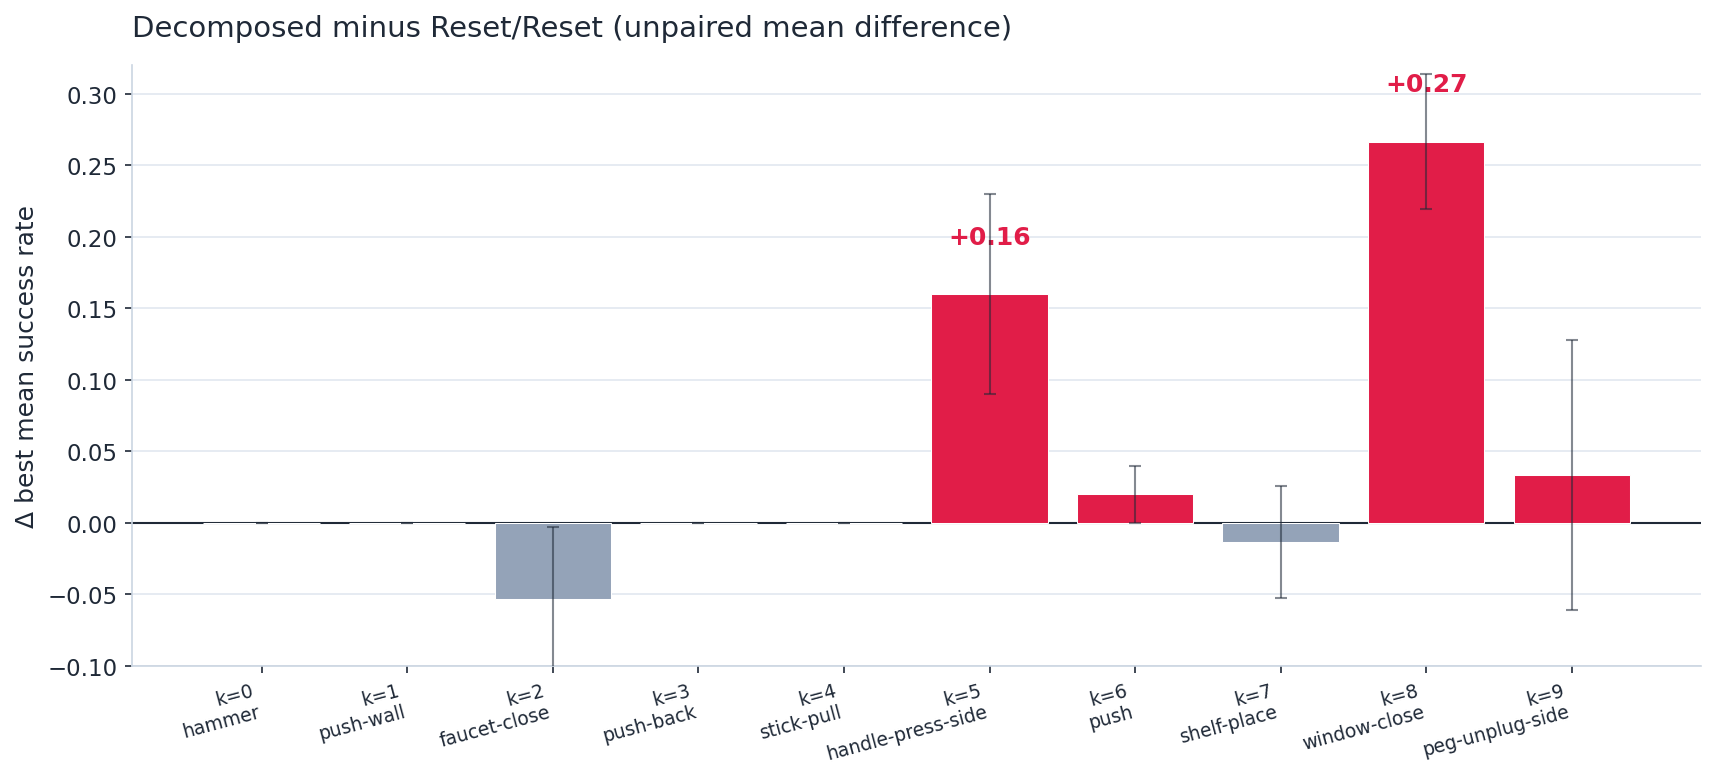
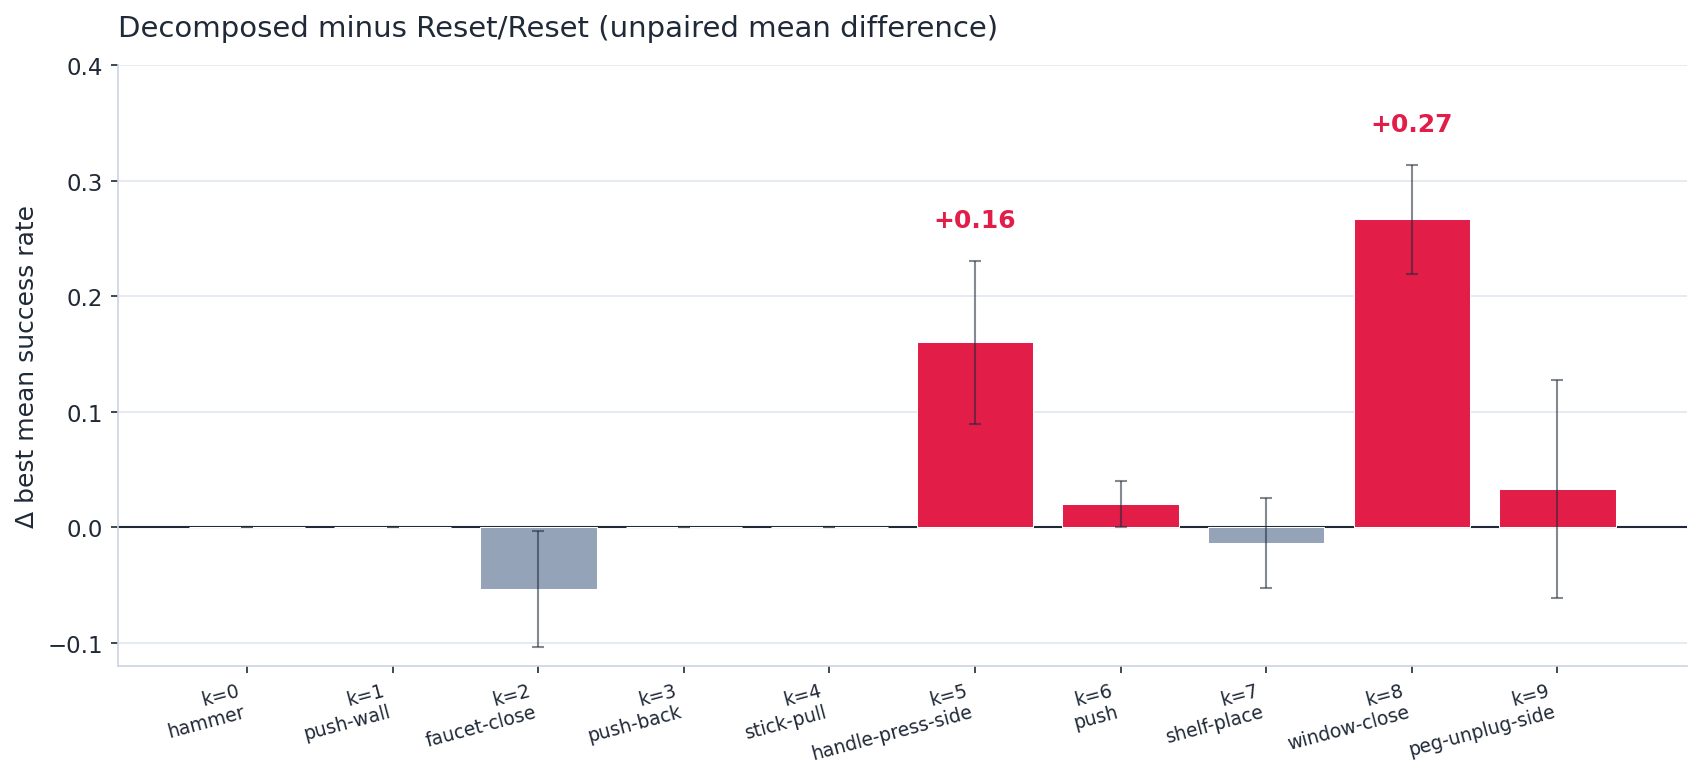
results/presentation: standalone RESULTS.md (diagnosis + method + results)
Self-contained markdown presentation of the project's full result
package: the CKA-mixture diagnosis (H1/H2 alpha-vs-success scatter,
the C0 mixture-dynamics panel, the H3 alpha-vs-logsumexp panel),
the L_dyn convergence panel for the proposed decomposed critic, and
the four headline result figures (avg-best bar, per-task grouped
bars, per-task delta, hard-task trajectories) plus the full
per-task and per-cell tables.

Embeds every figure under results/presentation/img/ and
docs/wandb_analysis/png/ via relative paths and inline LaTeX-style
math. Reads top-to-bottom as the experimental section of the
workshop paper would.

Also: re-rendered delta_per_task.png with the +0.27 annotation
moved above the error-bar cap (previously overlapping).

diff --git a/results/scripts/render_plots.py b/results/scripts/render_plots.py
@@ -187,15 +187,16 @@ def plot_delta_per_task(df: pd.DataFrame, save_to: Path) -> None:
     ax.set_ylabel("Δ best mean success rate")
     ax.set_title("Decomposed minus Reset/Reset (unpaired mean difference)",
                  loc="left", pad=14)
-    ax.set_ylim(-0.1, 0.32)
+    ax.set_ylim(-0.12, 0.40)
     ax.yaxis.grid(True, color="#e2e8f0", lw=0.8, zorder=0)
     ax.set_axisbelow(True)
-    # Annotate the big wins.
+    # Annotate the big wins -- place the label clear of the error-bar cap.
     for k in (5, 8):
+        top = delta[k] + se[k] + 0.025
         ax.annotate(f"+{delta[k]:.2f}",
-                    xy=(k, delta[k]),
-                    xytext=(k, delta[k] + 0.035),
-                    ha="center", color=ROSE, fontsize=12, fontweight="bold")
+                    xy=(k, top),
+                    ha="center", va="bottom",
+                    color=ROSE, fontsize=12, fontweight="bold")
     fig.savefig(save_to, dpi=150, bbox_inches="tight", facecolor="white")
     plt.close(fig)
 

diff --git a/results/presentation/RESULTS.md b/results/presentation/RESULTS.md
@@ -1,0 +1,153 @@
+# Decomposed Contrastive Critics for Continual GCRL — Results
+
+2026-05-15 · W&B `nyuad_mmvc/continual_gcrl_paper` · code: `Okyumi/sgcrl@section3_done`
+
+## Setup
+
+| | |
+|---|---|
+| **Sequence** | $\mathcal{M}^{(1)}, \ldots, \mathcal{M}^{(K)}$, $K = 10$ Continual World V2 Sawyer tasks; shared $\mathcal{S}, \mathcal{A}$; task-specific $P^{(k)}, \mathcal{G}^{(k)}$. |
+| **Reward** | $r_g(s_t, a_t) = (1-\gamma)\,p(s_{t+1} = g \mid s_t, a_t)$ — sparse goal-reaching only. |
+| **Goal** | $\max_\theta \mathbb{E}_k\, \mathbb{E}_{g \sim \mathcal{G}^{(k)}}\,\mathbb{E}_{\tau \sim \pi_\theta^{(k)}}\big[\sum_t \gamma^t \mathbf{1}[s_{t+1} = g]\big]$ after observing $\mathcal{M}^{(1..k)}$ in order. |
+| **Critic** | Contrastive InfoNCE on $(s, a, g)$ with hindsight relabelling and in-batch negatives. |
+| **Compute** | 8M env steps per task; 3 seeds for the decomposed cell, 4–5 seeds per cell for the 9-cell baseline grid. |
+
+---
+
+## Part I — Diagnosis: the CKA mixture is anti-predictive on the contrastive critic
+
+We first instantiate the additive knowledge-vector decomposition of prior continual-RL work on a contrastive critic and read off what the mixture coefficients actually do across the task curriculum. Three findings establish that this mixture is not a working transfer channel for a contrastive value function.
+
+### H1/H2 — Critic mixture coefficient is anti-correlated with success
+
+![End-of-task α_scale vs end-of-task best success, separately for the actor pool and the critic pool. Each point is one (task, seed) pair, n=24. Actor: Pearson r = +0.27 (p=0.204), no correlation. Critic: Pearson r = −0.54 (p=0.007), anti-correlation.](img/h1_h2_alpha_vs_success.png)
+
+**Reading.** Critic-side mixture is *alive but anti-predictive*: across 24 (task, seed) pairs, end-of-task $s_\alpha^{\mathrm{critic}}$ anti-predicts success at $r = -0.54$ ($p = 0.007$). Actor-side mixture shows no such correlation ($r = +0.27$, $p = 0.20$). Source CSV: `docs/wandb_analysis/csv/h1_h2_alpha_vs_success.csv`.
+
+### Asymmetry between actor and critic mixtures
+
+![C0 (CKA) mixture norm and α_scale across tasks k=2..9, 3 seeds. Top row: actor and critic mixture norms (log scale). Bottom row: actor and critic α_scale. Actor decays toward zero; critic stays alive and grows on hard tasks.](img/c0_trajectories.png)
+
+**Reading.** Actor mixture norm decays to $\approx 10^{-2}$ and $s_\alpha^{\mathrm{actor}}$ trends to $\approx 0.02$. Critic mixture norm settles in the $0.4$–$1.3$ band; $s_\alpha^{\mathrm{critic}}$ *grows* on the hardest tasks ($k=5$, $k=8$) and reaches $\approx 1.9$. The two sides of the decomposition behave entirely differently when transplanted onto a contrastive critic.
+
+### H3 — Critic mixture grows when InfoNCE logits spike
+
+![H3 test: per-step critic α_scale (left column) and InfoNCE logsumexp (right column) for k=3, 5, 8, 9 across three seeds. On k=5 and k=8, logsumexp spikes coincide with α_scale climbing.](img/h3_trajectories.png)
+
+**Reading.** Where the InfoNCE $\mathrm{logsumexp}$ statistic spikes ($k=5$, $k=8$), $s_\alpha^{\mathrm{critic}}$ climbs in lock-step. Spearman $\rho = -0.62$ and $-0.43$ within those tasks. On well-behaved tasks ($k=3$, $k=9$) both are quiet. The mixture is responding to numerical instability in the partition function, not to any transferable cross-task structure. Source CSV: `docs/wandb_analysis/csv/h3_logsumexp_correlation.csv`.
+
+### Why this happens, in one line
+
+The CKA-style decomposition adds the same vector $\sum_j \alpha_{k,j} v_j$ to every state-action pair. The actor argmax over actions and the InfoNCE softmax over goals are both invariant to a uniform additive shift of $\mathrm{sa\_repr}(s, a)$, so the gradient that this mixture term can carry through either loss is in their joint null space modulo a numerical-stability response. The diagnosis above is what that null-space situation looks like empirically.
+
+---
+
+## Part II — Method: decomposed contrastive critic
+
+We replace the state-independent mixture with a state-and-action-dependent additive residual on the critic, keeping the actor in `reset` mode.
+
+$$
+\mathrm{sa\_repr}(s, a) \;=\; \underbrace{h_\phi\!\bigl(b_{\mathrm{shared}}(s, a)\bigr)}_{\text{transfer}} \;+\; \underbrace{\phi_{\mathrm{task}}(s, a)}_{\text{per-task}}, \qquad
+\mathcal{L}_{\mathrm{critic}} = \mathcal{L}_{\mathrm{NCE}} + \mu\,\mathcal{L}_{\mathrm{dyn}}, \quad \mu = 1.
+$$
+
+| Component | Lifecycle at task boundary $k \to k+1$ |
+|---|---|
+| $b_{\mathrm{shared}}(s, a)$ — shared body, ResMLP 1024×4 | **carried forward** (the only transfer channel) |
+| $h_\phi$, $h_{\mathrm{dyn}}$, $\psi$ — heads / goal encoder | carried forward |
+| $\phi_{\mathrm{task}}(s, a)$ — per-task encoder, ResMLP 256×4 | **re-initialised** |
+| actor $\pi_\theta$, replay buffer $\mathcal{D}_k$ | re-initialised / cleared |
+
+The body is regularised by a masked-dynamics auxiliary on the task-invariant subspace $M = \{0,1,2,3\}$ (end-effector xyz + gripper):
+
+$$\mathcal{L}_{\mathrm{dyn}} \;=\; \mathbb{E}_{(s,a,s')}\!\big\|\, h_{\mathrm{dyn}}\!\bigl(b_{\mathrm{shared}}(s, a)\bigr) - s'_M \,\big\|_2^2.$$
+
+### Auxiliary loss converges at task 0 and stays there
+
+![C2 (decomposed) dynamics-auxiliary loss across tasks k=0..7, median ± IQR over 3 seeds. L_dyn drops three orders of magnitude during task 0 (purple) and stays at ~1e-4 on all subsequent tasks.](img/c2_ldyn_dynamics.png)
+
+**Reading.** $\mathcal{L}_{\mathrm{dyn}}$ converges by approximately three orders of magnitude during task 0 and remains at the same floor on $k = 1, \ldots, 7$. Two readings of this are consistent with the data: the auxiliary either (i) acts as a one-shot initialiser for $b_{\mathrm{shared}}$ at $k=0$, or (ii) acts as a low-level continual regulariser. A flag-gated ablation cell (`dyn_aux_after_task0 = 0`) is queued to distinguish the two. Source CSV: `docs/wandb_analysis/csv/c2_ldyn_per_task.csv`.
+
+---
+
+## Part III — Headline result
+
+### Average best success across the 10 tasks
+
+![Bar chart of average best success across the 10 tasks for all 10 cells; decomposed (rose) at 0.873 highest. R/R at 0.832, P/R at 0.827, P/P at 0.791, R/P at 0.774, R/CKA at 0.840, CKA/R at 0.841, CKA/P at 0.797, CKA/CKA at 0.781, P/CKA at 0.761, Decomposed (ours) at 0.873.](img/avg_best_bar.png)
+
+**Reading.** Decomposed critic at $\mathbf{0.873}$ vs the best non-decomposed cell (CKA/R) at $0.841$, vs the from-scratch baseline R/R at $0.832$. The gap from "best baseline cell" to "ours" is $0.032$ — larger than the spread of the other nine cells.
+
+### Per-task best mean success across the curriculum
+
+![Grouped bar chart of per-task best success for Reset/Reset (slate), Persistent/Persistent (amber), CKA/Reset (indigo), and Decomposed (rose). Decomposed visibly wins k=5 and k=8; matches the field elsewhere.](img/bar_per_task.png)
+
+**Reading.** Easy tasks ($k = 0, 1, 3, 4, 6$) are at ceiling for every cell. The gap from the decomposed critic to the baselines opens on the three hard tasks ($k = 5, 8, 9$).
+
+### Where the gain lives — decomposed minus reset/reset, per task
+
+![Bar chart of decomposed minus reset/reset per task, with propagated standard error. +0.16 on k=5 handle-press-side and +0.27 on k=8 window-close annotated in rose; other tasks within seed noise of zero.](img/delta_per_task.png)
+
+**Reading.** The improvement is concentrated entirely on the two hardest tasks: $\Delta = +0.27$ on `window-close` (k=8) and $\Delta = +0.16$ on `handle-press-side` (k=5). Other tasks are within seed noise of zero. The two error bars on the wins do not cross zero. `peg-unplug-side` (k=9) trends positive but has overlapping error bars; `faucet-close` (k=2) trends slightly negative with overlapping error bars.
+
+### Trajectories on the three hardest tasks
+
+![Three side-by-side line plots of evaluator success rate vs env steps for the four cells on k=5, k=8, k=9. Decomposed (rose) is above the others on k=5 and k=8 across the full 8M steps; competitive on k=9.](img/trajectories_hard.png)
+
+**Reading.** The decomposed cell does not win by spiking late — it sits *above the baselines for the entire 8M-step training window* on `window-close`, at roughly twice the success rate of the next-best cell. On `handle-press-side` the absolute level is low for every cell but the decomposed cell stays consistently above. On `peg-unplug-side` the four cells converge to $\approx 0.4$.
+
+### Full per-task table
+
+| $k$ | task | R / R | P / P | C / R | Decomposed |
+|---:|:---|---:|---:|---:|---:|
+| 0 | hammer            | 1.000 ± 0.000 | 1.000 ± 0.000 | 1.000 ± 0.000 | 1.000 ± 0.000 |
+| 1 | push-wall         | 1.000 ± 0.000 | 1.000 ± 0.000 | 1.000 ± 0.000 | 1.000 ± 0.000 |
+| 2 | faucet-close      | 0.920 ± 0.084 | 0.880 ± 0.084 | 0.920 ± 0.045 | 0.867 ± 0.058 |
+| 3 | push-back         | 1.000 ± 0.000 | 1.000 ± 0.000 | 1.000 ± 0.000 | 1.000 ± 0.000 |
+| 4 | stick-pull        | 1.000 ± 0.000 | 1.000 ± 0.000 | 0.980 ± 0.045 | 1.000 ± 0.000 |
+| **5** | **handle-press-side** | 0.240 ± 0.089 | 0.200 ± 0.122 | 0.260 ± 0.055 | **0.400 ± 0.100** |
+| 6 | push              | 0.980 ± 0.045 | 1.000 ± 0.000 | 1.000 ± 0.000 | 1.000 ± 0.000 |
+| 7 | shelf-place       | 0.980 ± 0.045 | 0.660 ± 0.385 | 0.980 ± 0.045 | 0.967 ± 0.058 |
+| **8** | **window-close**      | 0.367 ± 0.058 | 0.367 ± 0.153 | 0.400 ± 0.000 | **0.633 ± 0.058** |
+| 9 | peg-unplug-side   | 0.833 ± 0.058 | 0.800 ± 0.100 | 0.867 ± 0.153 | 0.867 ± 0.153 |
+| | **avg best** | **0.832** | 0.791 | 0.841 | **0.873** |
+| | seeds (median) | 5 | 5 | 5 | 3 |
+
+R = reset, P = persistent, C = CKA. Each cell shows mean ± sample standard deviation across seeds.
+
+### All ten cells, headline summary
+
+| cell | avg best | groups | n seeds | forward transfer vs R/R |
+|---|---:|---|---:|---|
+| **Decomposed (ours)** | **0.873** | c2_decomposed | 3 | — *(unpaired; seeds disjoint from R/R)* |
+| CKA / Reset | 0.841 | real1+real2 | 5 | +0.007 ± 0.009 |
+| Reset / CKA | 0.840 | for_real | 5 | +0.005 ± 0.014 |
+| Reset / Reset (from-scratch) | 0.832 | for_real | 5 | +0.000 ± 0.000 |
+| Persistent / Reset | 0.827 | for_real | 5 | −0.007 ± 0.012 |
+| CKA / Persistent | 0.797 | real1+real2 | 4 | −0.041 ± 0.024 |
+| Persistent / Persistent | 0.791 | for_real | 5 | −0.049 ± 0.028 |
+| CKA / CKA | 0.781 | real1+real2 | 4 | −0.068 ± 0.029 |
+| Reset / Persistent | 0.774 | for_real | 5 | −0.066 ± 0.025 |
+| Persistent / CKA | 0.761 | for_real | 5 | −0.078 ± 0.026 |
+
+Reference for forward transfer: R/R cell. Forward transfer is the mean of (cell.best − R/R.best) over $(k \geq 1$, seed$)$ pairs with the **same** seed; the decomposed cell uses seeds 5,6,7 which do not appear in R/R, so an unpaired difference is reported in the per-task delta figure above instead.
+
+---
+
+## Caveats
+
+- **Sample size.** The decomposed-critic numbers are from 3 seeds (5, 6, 7). The 9-cell baseline numbers are from 4–5 seeds (97–101). Wider error bars on the decomposed cell, especially on `peg-unplug-side`. Five-seed runs for the decomposed cell are queued.
+- **Unpaired comparison.** Decomposed seeds do not overlap with R/R seeds, so we report unpaired mean differences with propagated standard error rather than paired forward transfer.
+- **One hyperparameter setting.** All decomposed numbers are at $\mu = 1$, $\phi_{\mathrm{task}}$ width 256, depth 4, mask $M = \{0,1,2,3\}$.
+- **No backward transfer.** Every run had `intra_eval_previous_tasks = False`, so classical BWT and forgetting cannot be computed from these runs. Within-task stability (end/best, $\approx 0.48$ for every cell) is the in-data proxy. A checkpoint-replay BWT pass is planned for the camera-ready.
+- **One benchmark, one embodiment.** Single Sawyer arm, state observations, manipulation. The geometric argument behind the construction is benchmark-agnostic; the headline numbers are not.
+
+---
+
+## Source pointers
+
+- Metric definitions: `results/data/processed/documentation.md` (auto-generated by `compute_metrics.py`).
+- Raw per-step histories per W&B group: `results/data/raw/{for_real,real1,real2,c2_decomposed}/histories.parquet`.
+- Reproducibility: `WANDB_API_KEY=… python results/scripts/fetch_wandb_runs.py && python results/scripts/compute_metrics.py && python results/scripts/render_plots.py && python results/scripts/render_tables.py`.
+- Workshop draft: [Okyumi/CGCRL---RLC-workshop-2026](https://github.com/Okyumi/CGCRL---RLC-workshop-2026).
+- Code: [Okyumi/sgcrl](https://github.com/Okyumi/sgcrl), branch `section3_done`.
